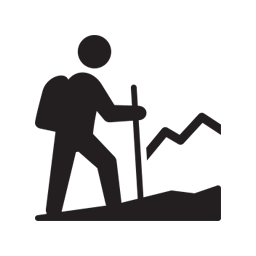
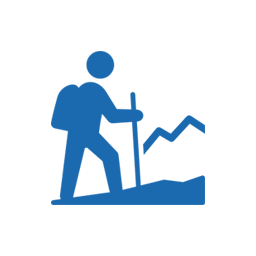
UI improved

Changed region(s): [[0.125, 0.125, 0.875, 0.875]]

diff --git a/app.html b/app.html
@@ -88,7 +88,7 @@
                 <img src="assets/images/moodu-bear.svg" class="moodu-bear" alt="Hello, I'm Moodu the Bear!">
                 <img src="assets/images/shadow.svg" class="moodu-shadow" alt="shadow">
             </div>
-            <span class="bear-message"><h3>Hi there! I'm Moodü the Bear. I am hear to understand how you feel, and try to help remedy or maintain a good mood! <span class="showon768">Take a selfie and I'll try to help you out.</span><span class="hideon768">I will do my best at figuring out how you feel based on the beautiful selfie you take. But I warn you, I am not perfect, I am only bear.</span></h3>
+            <span class="bear-message"><h3>Hi there! I'm Moodü the Bear. I am hear to understand how you feel, and try to help remedy or maintain a good mood! <span class="showon768">Take a selfie and I'll try to help you out.</span><span class="hideon768">I will do my best at figuring out how you feel based on the beautiful selfie you take. But I warn you, I am not perfect, I am only Bear.</span></h3>
                 <button id="beginApp" class="btn-lg btn-success">Take A Selfie</button></span>
             <div class="app">
                 <a href="#" id="start-camera" class="visible">Touch Here To Analyze Your Mood</a>
@@ -125,10 +125,10 @@
             </button>
             <div class="row">
             <div class="card col-sm-12 col-lg-6">
-                <img class="card-img-top" src="assets/images/music.png" height="200" width="200" alt="Moodu found music">
+                <img class="card-img-top" src="assets/images/music.png" height="150" width="150" alt="Moodu found music">
                 <div class="card-block">
-                    <h4 class="card-title">Moodü Found Music</h4>
-                    <p class="card-text">I found some music on Spotify that you might like. Check it out!</p>
+                    <h3 class="card-title">Moodü Found Music</h3>
+                    <p class="card-text"></p>
                     <a id="listenMusic" href="#" class="next-step btn btn-primary deliver-content">Go Listen</a>
                 </div>
             </div>
@@ -141,29 +141,29 @@
                 </div>
             </div> -->
             <div class="card col-sm-12 col-lg-6">
-                <img class="card-img-top" src="assets/images/quotes.png" height="200" width="200" alt="Card image cap">
+                <img class="card-img-top" src="assets/images/quotes.png" height="150" width="150" alt="Card image cap">
                 <div class="card-block">
-                    <h4 class="card-title">Moodü Found Quotes</h4>
-                    <p class="card-text">Maybe one of these quotes I found will make your day (even better)!</p>
-                    <a href="#" class="btn btn-primary deliver-content first-quote next-step">Go Read</a>
+                    <h3 class="card-title">Moodü Found Quotes</h3>
+                    <p class="card-text"></p>
+                    <a href="#" id="readAQuote" class="btn btn-primary deliver-content first-quote next-step">Go Read</a>
                 </div>
             </div>
             </div>
             <div class="row">
             <div class="card hiking-card col-sm-12 col-lg-6">
-                <img class="card-img-top" src="assets/images/hiking-trails.png" height="200" width="200" alt="Card image cap">
+                <img class="card-img-top" src="assets/images/hiking-trails.png" height="150" width="150" alt="Card image cap">
                 <div class="card-block">
-                    <h4 class="card-title">Moodü Found Hiking Trails</h4>
-                    <p class="card-text">Time to get some excercise. Boost those seretonin levels! Let's get you happy!</p>
+                    <h3 class="card-title">Moodü Found Hiking Trails</h3>
+                    <p class="card-text"></p>
                     <a id="getTrails" href="#" class="next-step btn btn-primary deliver-content">Go Trailing</a>
                 </div>
             </div>
             <div class="card col-sm-12 col-lg-6">
-                <img class="card-img-top" src="assets/images/music.png" height="200" width="200" alt="Card image cap">
+                <img class="card-img-top" src="assets/images/shopping.png" height="150" width="150" alt="Card image cap">
                 <div class="card-block">
-                    <h4 class="card-title">Moodü Found Shopping Deals</h4>
-                    <p class="card-text">Want to fill an empty void with some shopping? I found some deals?</p>
-                    <a href="#" class="btn btn-primary deliver-content get-groupon next-step">Go Shop</a>
+                    <h3 class="card-title">Moodü Found Shopping Deals</h3>
+                    <p class="card-text"></p>
+                    <a href="#" id="shopGrouponDeals" class="btn btn-primary deliver-content get-groupon next-step">Go Shop</a>
                 </div>
             </div>
         </div>

diff --git a/assets/js/app.js b/assets/js/app.js
@@ -678,7 +678,7 @@ $('.get-groupon').on('click', function() {
     }).done(function(data) {
         console.log(data);
         $.each(data.deals, function(idx, deal) {
-            var grouponDeals = '<div class="deal"><div class="groupon-image"><img src="' + deal.mediumImageUrl + '"></div><h3>' + deal.announcementTitle + '</h3><div class="fineprint">' + deal.finePrint + '</div><button class="btn btn-success deal-link"><a href="' + deal.dealUrl + '">Get Deal</a></button></div>'
+            var grouponDeals = '<div class="deal"><div class="groupon-image"><img src="' + deal.largeImageUrl + '"></div><h3>' + deal.announcementTitle + '</h3><div class="fineprint">' + deal.finePrint + '</div><button class="btn btn-success deal-link"><a target="_blank" href="' + deal.dealUrl + '">Get Deal</a></button></div>'
             $("#groupon").append(grouponDeals);
         })
         $("#groupon").prepend("<h2>Check out these Deals!</h2><hr>");

diff --git a/assets/css/styles.css b/assets/css/styles.css
@@ -934,6 +934,9 @@ input[type=password]:hover {
 }
 .deal {
   margin-bottom: 30px;
+  border: 4px solid;
+  padding: 5px;
+  border-radius: 5px;
 }
 .deal-link,
 .trail-link {
@@ -964,7 +967,7 @@ input[type=password]:hover {
 #chooseContent {
     left: 300%;
     border: none;
-    top: -30px;
+    top: 10px;
 }
 #errorRetake {
   display: none;
@@ -986,10 +989,11 @@ input[type=password]:hover {
 
 .card {
     width: 50%;
+    margin: 0 auto;
 }
 
-.card {
-    margin: 0 auto;
+.card-block h3 {
+  color: #fff;
 }
 
 .login {
@@ -1175,7 +1179,7 @@ color: rgba(244, 244, 244, 0.50) !important;
     }
     #chooseContent {
       margin-left: -33.5%;
-      top: -20px;
+      top: 0;
     }
     #appContainer {
       height: 100%;

diff --git a/assets/css/preloader.css b/assets/css/preloader.css
@@ -232,3 +232,36 @@ header .container {
     display: none;
   }
 }
+
+/* custom #chooseContent elements */
+.deliver-content {
+  background: #8c3cae;
+}
+.deliver-content:hover {
+  background: #7818a1;
+}
+#chooseContent > div > div > div > h3 {
+  margin-top: 0;
+}
+
+#listenMusic {
+  background: #1bc663;
+}
+#listenMusic:hover {
+  background: #11b355;
+}
+
+#readAQuote {
+  background: #e74c3c;
+}
+#readAQuote:hover {
+  background: #cf3929;
+}
+
+#getTrails {
+  background: #3752b6;
+}
+
+#getTrails:hover {
+  background: #2640a3;
+}
